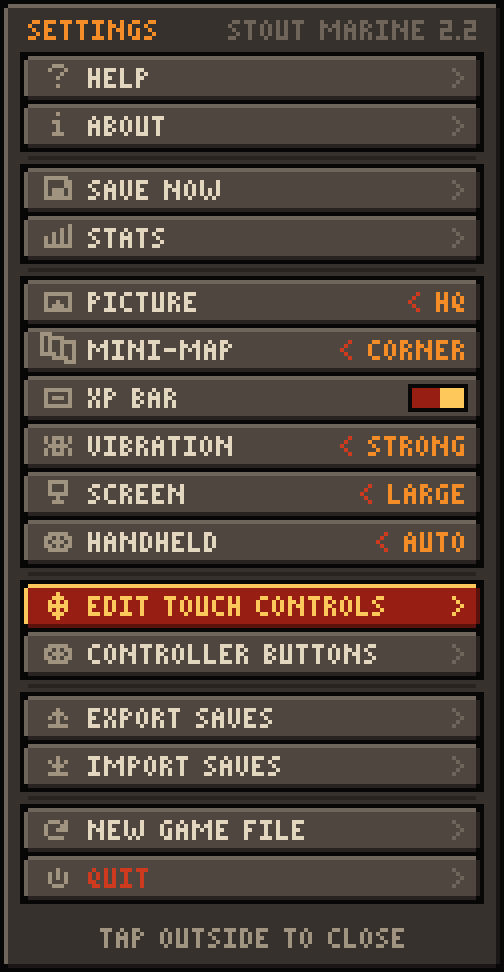
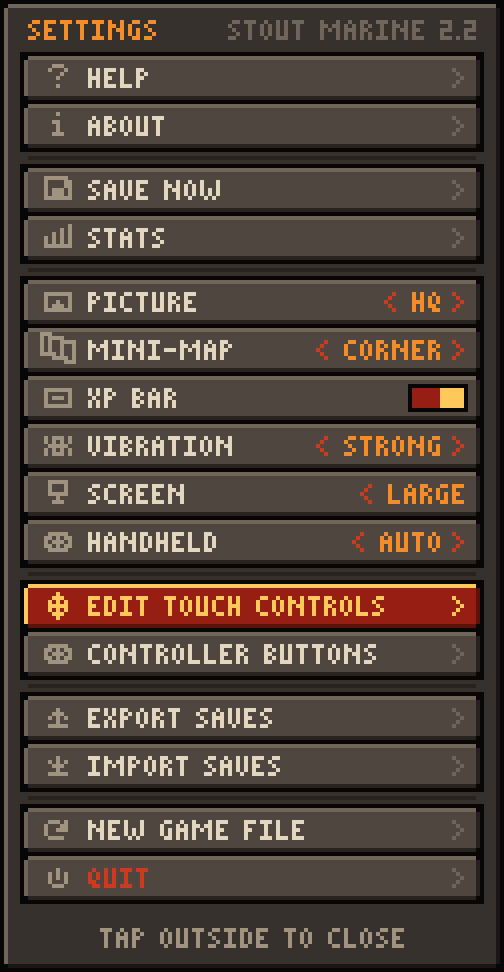
Stout Marine 2.2.1
Fixed: the cross could not be made smaller in Edit touch controls (tapping
only went up, and in portrait it never came back down). The size now shows
"< value >": the left arrow makes it smaller, the right arrow bigger, and
tapping the row goes up to the biggest size that fits, then back down.
Settings rows with a value show both arrows, each one tappable.

Claude-Session: https://claude.ai/code/session_01MybQg2o8bLLCBevEBFztR7

diff --git a/src/android/modmarine/app/GameView.java b/src/android/modmarine/app/GameView.java
@@ -219,9 +219,9 @@ final class GameView extends View {
             int[] e = curEdits().get(g.id);
             final int size = e != null ? e[2] : 100;
             PixelMenu.Item it = m.add(PixelMenu.CHOICE, Icons.I_SCR, "SIZE: " + Deck.groupName(g.id), size + "%", null);
-            it.left = new Runnable() { public void run() { resize(g.id, size - 10); } };
-            it.right = new Runnable() { public void run() { resize(g.id, size + 10); } };
-            it.act = new Runnable() { public void run() { resize(g.id, size >= Deck.SIZE_MAX ? Deck.SIZE_MIN : size + 10); } };
+            it.left = new Runnable() { public void run() { resize(g.id, size - 10, true); } };
+            it.right = new Runnable() { public void run() { resize(g.id, size + 10, true); } };
+            it.act = new Runnable() { public void run() { bounceSize(g.id, size); } };
         } else m.add(PixelMenu.INFO, null, g == null ? "NOTHING CHOSEN" : Deck.groupName(g.id), g == null ? "" : "SAME SIZE", null);
         m.add(PixelMenu.OPEN, Icons.I_REDO, "SWAP LEFT / RIGHT", null, new Runnable() { public void run() { swapSides(); } });
         m.add(PixelMenu.BUTTON, null, "RESET TO DEFAULT", null, new Runnable() { public void run() {
@@ -231,14 +231,28 @@ final class GameView extends View {
         menuChanged();
     }
 
-    /** Changes a group's size; a size with no room is not kept. */
-    private void resize(String id, int size) {
-        size = Math.max(Deck.SIZE_MIN, Math.min(Deck.SIZE_MAX, size));
-        int[] old = curEdits().get(id);
-        int[] e = old != null ? old.clone() : new int[]{0, 0, 100};
-        e[2] = size;
-        if (!deck.placeNear(getWidth(), getHeight(), id, e, 8)) toast("No room for that size here.");
+    /** Which way tapping the size row goes next (+1 bigger, -1 smaller); it turns round at the ends. */
+    private int sizeDir = 1;
+
+    /** Changes a group's size; a size with no room (or out of range) is not kept. Returns true if it changed. */
+    private boolean resize(String id, int size, boolean tell) {
+        boolean ok = false;
+        if (size >= Deck.SIZE_MIN && size <= Deck.SIZE_MAX) {
+            int[] old = curEdits().get(id);
+            int[] e = old != null ? old.clone() : new int[]{0, 0, 100};
+            e[2] = size;
+            ok = deck.placeNear(getWidth(), getHeight(), id, e, 8);
+        }
+        if (!ok && tell) toast(size > Deck.SIZE_MAX ? "That's the biggest size." : size < Deck.SIZE_MIN ? "That's the smallest size." : "No room for that size here.");
         relayout(); saveEdits(); fillEditMenu();
+        return ok;
+    }
+
+    /** Tapping the size row: up a step until the biggest size that fits, then back down to the smallest, and so on. */
+    private void bounceSize(String id, int size) {
+        if (resize(id, size + 10 * sizeDir, false)) return;
+        sizeDir = -sizeDir;
+        resize(id, size + 10 * sizeDir, true);
     }
 
     /** Mirrors every group left / right (left-handed and back); each goes to its mirrored place or the nearest free one. */
@@ -257,6 +271,7 @@ final class GameView extends View {
             editOnWindow = menuDst.contains(x, y);
             if (editOnWindow) { menuTouchEvent(act, x, y); return; }
             Deck.Group g = deck.groupAt(x / deck.artPx, y / deck.artPx);
+            if (g == null || !g.id.equals(deck.selected)) sizeDir = 1;   // a new choice: tapping its size starts upwards
             deck.selected = g != null ? g.id : null;
             deck.dragging = g != null ? g.id : null;
             if (g != null) {
@@ -564,7 +579,9 @@ final class GameView extends View {
             menuTouch = menuDst.contains(x, y) ? row : -3;
             if (row >= 0) { m.cursor = row; menuController = false; menuChanged(); }
         } else if (act == MotionEvent.ACTION_UP || act == MotionEvent.ACTION_POINTER_UP) {
-            if (menuTouch >= 0 && row == menuTouch) menuActivate();
+            int arrow = row >= 0 ? m.arrowAt(row, (x - menuDst.left) / s) : 0;
+            if (menuTouch >= 0 && row == menuTouch && arrow != 0) { m.cursor = row; menuSide(arrow); }   // tapped "<" or ">"
+            else if (menuTouch >= 0 && row == menuTouch) menuActivate();
             else if (menuTouch == -3 && !menuDst.contains(x, y) && !m.editor) closeMenu();
             menuTouch = -2;
         } else if (act == MotionEvent.ACTION_CANCEL) menuTouch = -2;

diff --git a/src/android/modmarine/app/PixelMenu.java b/src/android/modmarine/app/PixelMenu.java
@@ -86,6 +86,22 @@ final class PixelMenu {
         return -1;
     }
 
+    /** A value row with both a "less" and a "more" (drawn "< value >"). */
+    static boolean twoWay(Item it) { return it.kind == CHOICE && it.left != null && it.right != null; }
+
+    /**
+     * Which arrow of row i the window art pixel x is on: -1 the left half of "< value >" (less), +1 the right half
+     * (more), 0 elsewhere on the row (the label).
+     */
+    int arrowAt(int i, float x) {
+        if (i < 0 || i >= items.size() || !twoWay(items.get(i))) return 0;
+        Item it = items.get(i);
+        int x1 = W - PAD + 1, tw = PixelArt.textWidth(it.value, 1);
+        int v0 = x1 - 15 - tw - 8, mid = x1 - 9 - tw / 2;   // some room left of the "<" for a finger
+        if (x < v0) return 0;
+        return x < mid ? -1 : 1;
+    }
+
     void move(int d) {
         if (items.isEmpty()) return;
         int n = items.size(), c = cursor < 0 ? (d > 0 ? -1 : n) : cursor;
@@ -142,8 +158,14 @@ final class PixelMenu {
                         int k = it.on ? sx1 - 6 : sx0 + 1; a.rect(k, t + 3, k + 5, t + h - 4, it.on ? OR2 : D5);
                     } else if (it.kind == CHOICE) {
                         int tw = PixelArt.textWidth(it.value, 1);
-                        a.text(it.value, x1 - 3 - tw, t + 3, OR, 1);
-                        a.blitCenter(Icons.CHEV_L, x1 - 7 - tw - 2, t + h / 2, R3, false);
+                        if (twoWay(it)) {   // "< value >": both arrows can be tapped
+                            a.text(it.value, x1 - 9 - tw, t + 3, OR, 1);
+                            a.blitCenter(Icons.CHEV_L, x1 - 13 - tw - 2, t + h / 2, sel ? OR2 : R3, false);
+                            a.blitCenter(Icons.CHEV_R, x1 - 5, t + h / 2, sel ? OR2 : R3, false);
+                        } else {
+                            a.text(it.value, x1 - 3 - tw, t + 3, OR, 1);
+                            a.blitCenter(Icons.CHEV_L, x1 - 7 - tw - 2, t + h / 2, R3, false);
+                        }
                     } else {
                         if (!it.value.isEmpty()) {
                             int tw = PixelArt.textWidth(it.value, 1);

diff --git a/src/android/modmarine/app/About.java b/src/android/modmarine/app/About.java
@@ -28,18 +28,16 @@ final class About {
 
     /** Shown once after an update (keep in step with CHANGES.md). */
     static final String WHATS_NEW =
-          "\u2022 New: move the touch controls. Settings, Edit touch controls: drag the cross, the fire button and the other "
-        + "buttons where you like them, make the cross or fire button bigger or smaller, or swap left / right for "
-        + "left-handed play. Reset to default puts everything back.\n\n"
-        + "\u2022 New: controller buttons. Settings, Controller buttons: choose an action, then press the button you want "
-        + "for it. Start always opens the settings.\n\n"
-        + "\u2022 From 2.1: the XP bar, and the extras start on.";
+          "\u2022 Fixed: the cross (and the fire button) can be made smaller again. In Edit touch controls, tap < for "
+        + "smaller and > for bigger, or tap the size to go up and back down. Rows with a value in the settings have "
+        + "both arrows too.\n\n"
+        + "\u2022 From 2.2: edit touch controls (move, resize, swap left / right) and controller buttons.";
 
     /** The same, short enough for the pixel window (capitals only, no bullets). */
     static final String WHATS_NEW_SHORT =
-          "- EDIT TOUCH CONTROLS: MOVE AND RESIZE THE BUTTONS, OR SWAP LEFT / RIGHT.\n"
-        + "- CONTROLLER BUTTONS: PUT ANY ACTION ON ANY BUTTON.\n\n"
-        + "BOTH ARE IN THE SETTINGS (THE GEAR, OR HOLD THE MENU BUTTON).";
+          "- FIXED: THE CROSS CAN BE MADE SMALLER AGAIN. TAP < FOR SMALLER, > FOR BIGGER.\n"
+        + "- SETTINGS ROWS WITH A VALUE HAVE BOTH ARROWS.\n\n"
+        + "FROM 2.2: EDIT TOUCH CONTROLS AND CONTROLLER BUTTONS (IN THE SETTINGS).";
 
     static void showWhatsNew(Activity a) {
         new AlertDialog.Builder(a, android.R.style.Theme_DeviceDefault_Dialog_Alert)

diff --git a/src/android/modmarine/app/Help.java b/src/android/modmarine/app/Help.java
@@ -55,7 +55,8 @@ final class Help {
         + "even if you turn the phone. To get your controls back, tap the glowing button or <b>X CLOSE</b>.",
 
         "<h4>Settings (the gear button)</h4>"
-        + "Tap a row to use it; on rows with a value, tap again (or press left / right on a controller) to change it. "
+        + "Tap a row to use it. Rows with a value show <b>&lt; value &gt;</b>: tap the left arrow for the previous choice and "
+        + "the right arrow for the next (left / right on a controller). "
         + "Tap outside the window, or press <b>B</b>, to close.<br>"
         + "<b>Save now</b> &mdash; saves your game in one tap. It uses the game's own menu and its <b>Save Game</b>, "
         + "exactly as if you had done it yourself, so it only works while you are walking around (not in a fight, "
@@ -112,7 +113,9 @@ final class Help {
 
         "<h4>Move the touch controls</h4>"
         + "Settings, <b>Edit touch controls</b>: drag a group of buttons (the cross, the fire button, the L / R buttons, "
-        + "the top row) to where your thumbs like them. Tap the cross or the fire button, then change its size (80 to 140%). "
+        + "the top row) to where your thumbs like them. Tap the cross or the fire button, then change its size (80 to 140%): "
+        + "tap <b>&lt;</b> for smaller or <b>&gt;</b> for bigger, or tap the size row itself to go up a step at a time to the "
+        + "biggest size that fits, then back down. "
         + "<b>Swap left / right</b> mirrors everything, for left-handed play. Portrait and landscape are kept separately. "
         + "<b>Reset to default</b> puts everything back. Buttons can't overlap or go onto the game picture.",
     };

diff --git a/src/android/modmarine/app/Deck.java b/src/android/modmarine/app/Deck.java
@@ -51,7 +51,7 @@ final class Deck {
     String[][] legend;
     int legendX, legendY, legendW, legendH;
 
-    /** XP bar (Diablo style): shown when xpOn; level, XP in this level and the XP the level needs (level 0 = not known yet). */
+    /** XP bar: shown when xpOn; level, XP in this level and the XP the level needs (level 0 = not known yet). */
     boolean xpOn = true;
     int xpLevel, xp, xpNext;
     /** Where it goes (art pixels): bar x0..x1 from y0 (groove xpInner high), level socket, the "to next level" text. */
@@ -621,7 +621,7 @@ final class Deck {
         if (label != null) { lx0 = (gx0 + gx1) / 2 - tw / 2 - 3; lx1 = lx0 + tw + 5; }
         // bright leading edge, except behind the numbers
         if (fill > 0 && fill < w && (gx0 + fill - 1 < lx0 || gx0 + fill - 1 > lx1)) a.vline(gx0 + fill - 1, gy0, gy1, GOLD_EDGE);
-        // ten segments, like Diablo's bar (no notch behind the numbers)
+        // ten segments (no notch behind the numbers)
         for (int t = 1; t < 10; t++) {
             int x = gx0 + w * t / 10;
             if (x >= lx0 && x <= lx1) continue;

diff --git a/CHANGES.md b/CHANGES.md
@@ -1,5 +1,13 @@
 # Changes
 
+## 2.2.1
+- Fixed: in Edit touch controls the cross could not be made smaller. Tapping the size only went up, and in
+  portrait the cross has no room above 110 %, so it never came back down. Now the size shows "< 110% >": tap
+  the left arrow for smaller and the right arrow for bigger, or tap the row itself to go up a step at a time to
+  the biggest size that fits, then back down to 80 %.
+- Settings rows with a value (picture, mini-map, vibration, handheld) also show both arrows, and each arrow can
+  be tapped.
+
 ## 2.2
 - Edit touch controls (settings): drag groups of buttons (the cross, the fire button, L / R, the top row; in
   landscape also the wait button and the weapon slot) to new places on the control area, and make the cross or
@@ -13,7 +21,7 @@
   settings and the d-pad and sticks always move, so nobody can lock themselves out. Reset to default.
 
 ## 2.1
-- XP bar (Diablo style), on by default: your level in a round socket, a gold bar with ten segments, the XP you
+- XP bar, on by default: your level in a round socket, a gold bar with ten segments, the XP you
   have in this level, the XP the level needs, and how much is left until the next level. The numbers are the
   game's own, read from the emulated phone's memory without changing anything (the game keeps XP per level,
   so the bar fills from empty to the next level). Portrait: a strip right under the game picture. Landscape:

diff --git a/README.md b/README.md
@@ -63,7 +63,7 @@ and a window on first start lists them and shows where to change them.
 ### Your own layout and buttons
 
 **Edit touch controls** (settings): drag the cross, the fire button and the other groups of buttons where your
-thumbs like them, make the cross or fire button bigger or smaller, or **swap left / right** for left-handed
+thumbs like them, make the cross or fire button bigger or smaller (tap < or >), or **swap left / right** for left-handed
 play. Portrait and landscape are kept separately, and **Reset to default** puts everything back.
 
 **Controller buttons** (settings): choose an action, then press the button you want for it (if another action
